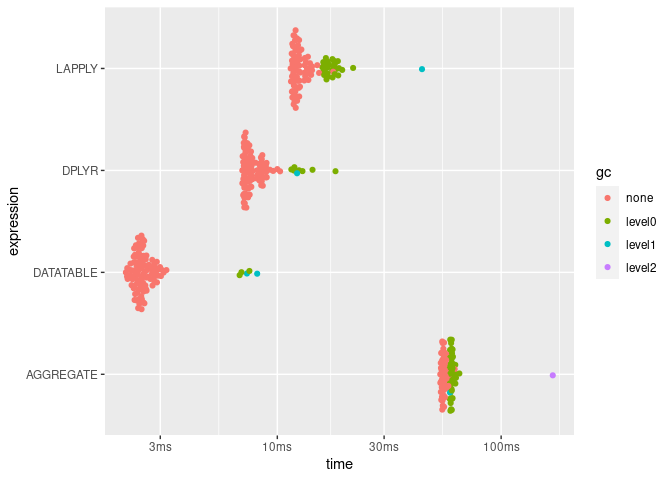
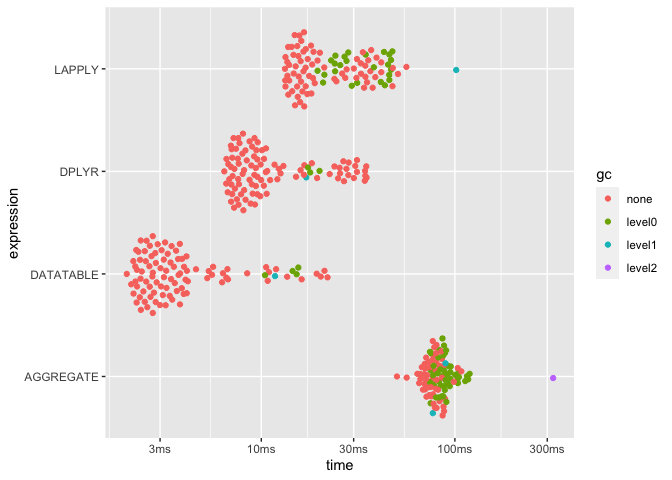
fix link to slides

diff --git a/maths/R/README.md b/maths/R/README.md
@@ -19,7 +19,7 @@ forks](https://img.shields.io/github/stars/ULHPC/tutorials.svg?style=social&labe
 
       Copyright (c) 2013-2020 Aurelien Ginolhac, UL HPC Team  <hpc-sysadmins@uni.lu>
 
-[![](https://github.com/ULHPC/tutorials/raw/devel/maths/R/img/cover_slides.png)](https://github.com/ULHPC/tutorials/raw/devel/maths/R/PS10_targets.html)
+[![](https://github.com/ULHPC/tutorials/raw/devel/maths/R/img/cover_slides.png)](https://ulhpc-tutorials.readthedocs.io/en/latest/maths/R/PS10_targets.html)
 
 <div class="shareagain" style="min-width:300px;margin:1em auto;">
 
@@ -442,10 +442,10 @@ summary(m, relative = TRUE)
     ## # A tibble: 4 x 6
     ##   expression   min median `itr/sec` mem_alloc `gc/sec`
     ##   <bch:expr> <dbl>  <dbl>     <dbl>     <dbl>    <dbl>
-    ## 1 LAPPLY      5.45   4.94      4.42      6.06     2.63
-    ## 2 AGGREGATE  25.4   22.3       1         9.24     1.31
-    ## 3 DPLYR       3.31   3.03      7.16      1        1   
-    ## 4 DATATABLE   1      1        22.1       1.25     1.87
+    ## 1 LAPPLY      6.56   5.46      3.32      6.06     4.81
+    ## 2 AGGREGATE  24.9   24.0       1         9.24     3.80
+    ## 3 DPLYR       3.19   2.91      5.82      1        1   
+    ## 4 DATATABLE   1      1        16.4       1.25     3.57
 
 -   plotting the benchmark
 
@@ -547,7 +547,7 @@ nothingness <- future_map(c(2, 2, 2), ~Sys.sleep(.x), .progress = TRUE)
 tictoc::toc()
 ```
 
-    ## 6.051 sec elapsed
+    ## 6.081 sec elapsed
 
 -   second in parallel
 
@@ -571,7 +571,7 @@ nothingness <- future_map(c(2, 2, 2), ~Sys.sleep(.x), .progress = TRUE)
 tictoc::toc()
 ```
 
-    ## 2.456 sec elapsed
+    ## 2.941 sec elapsed
 
 fetch env variables in R
 
